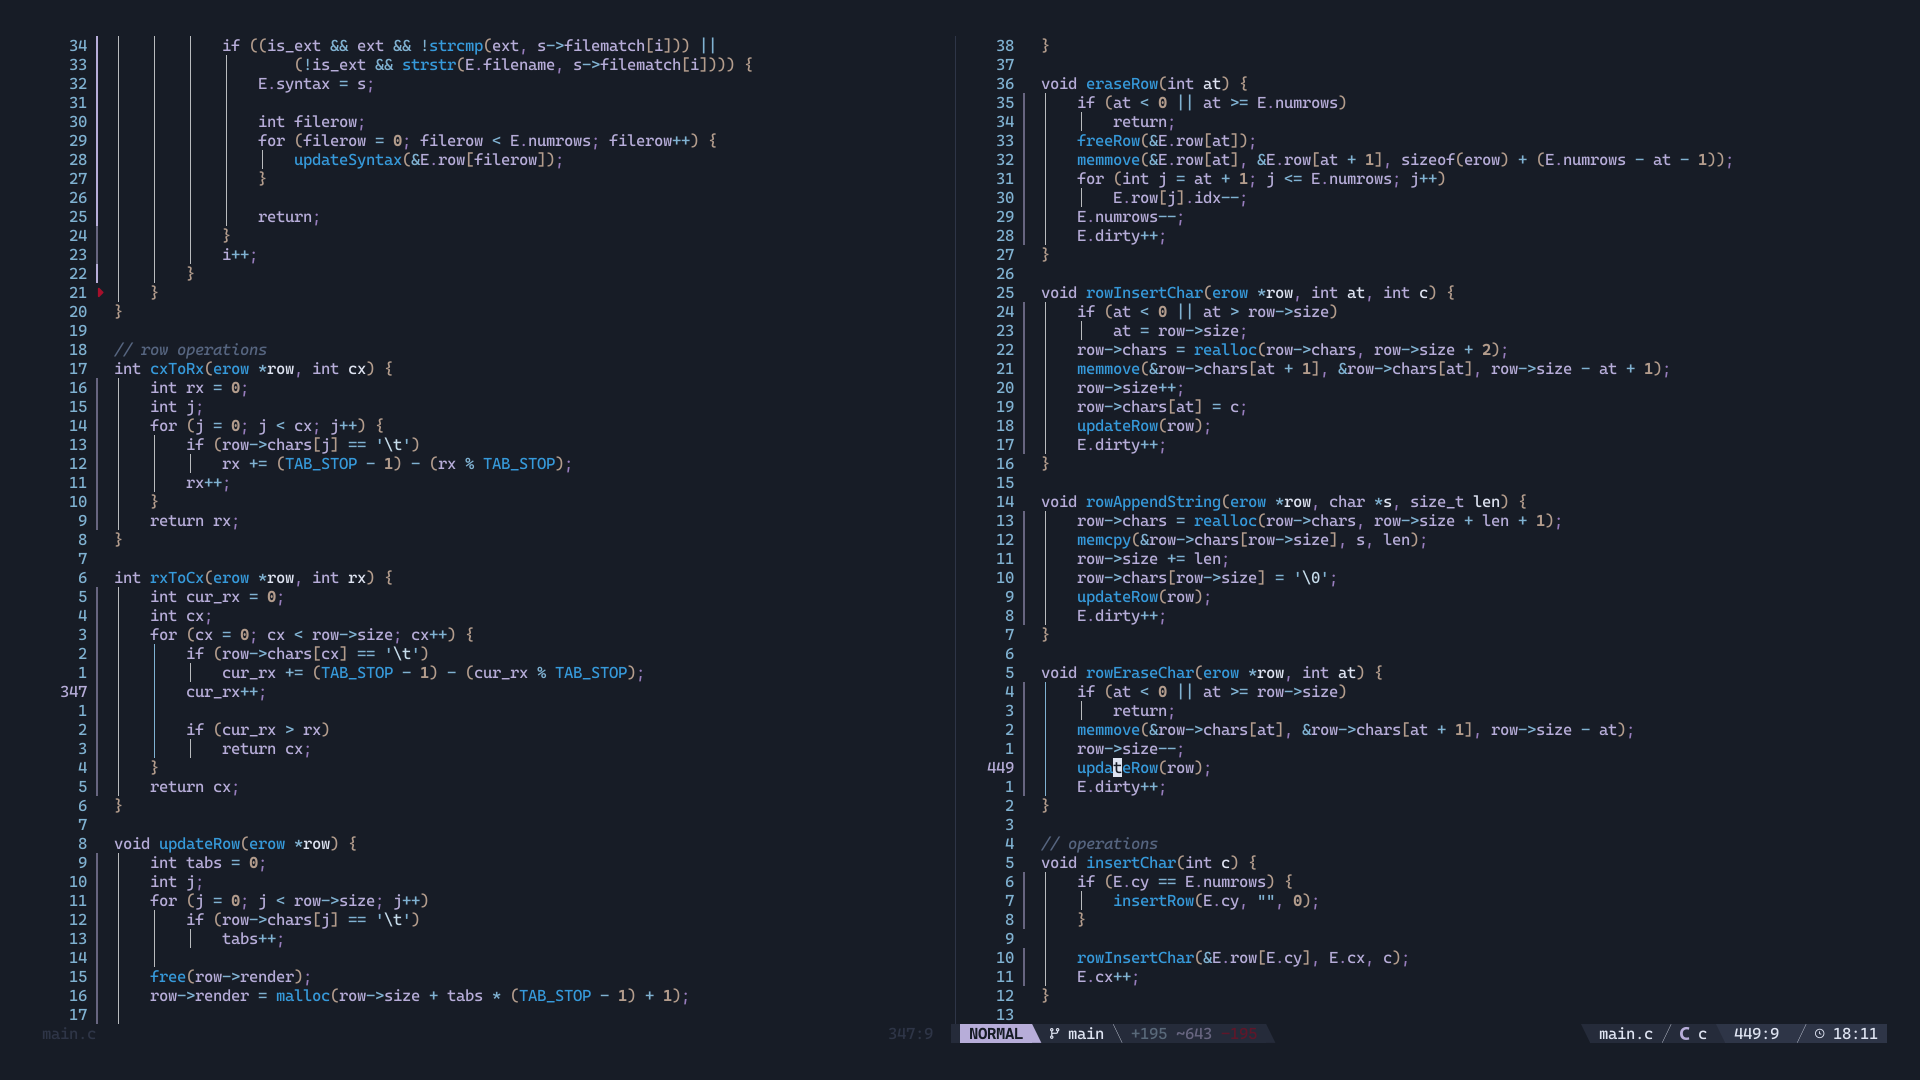
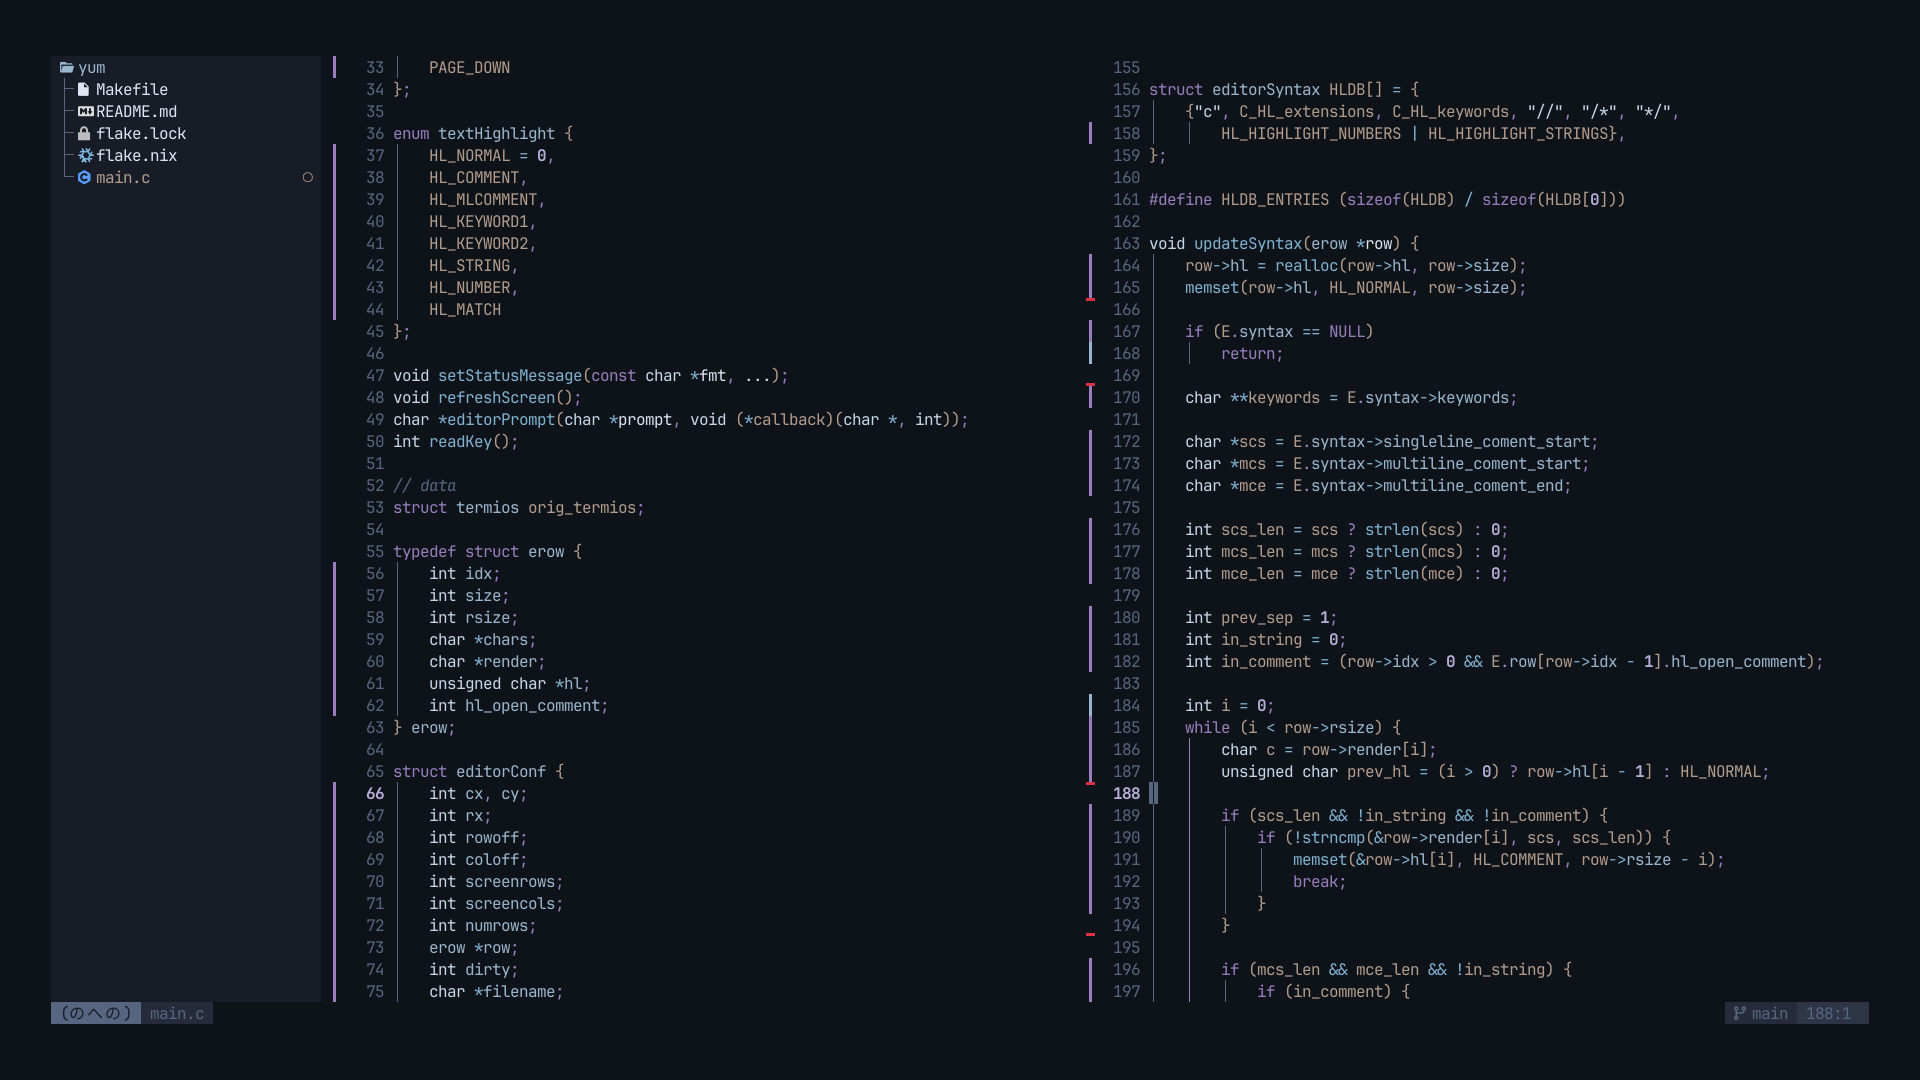
updated readme.md

diff --git a/README.md b/README.md
@@ -31,8 +31,6 @@ or simply run:
 :colorscheme hesperus
 ```
 
-NOTE: This theme is not exclusive to Neovim! The `ports` folder contains one subfolder for each piece of software the colorscheme was already ported to.
-
 <br></br>
 
 #### Credits
